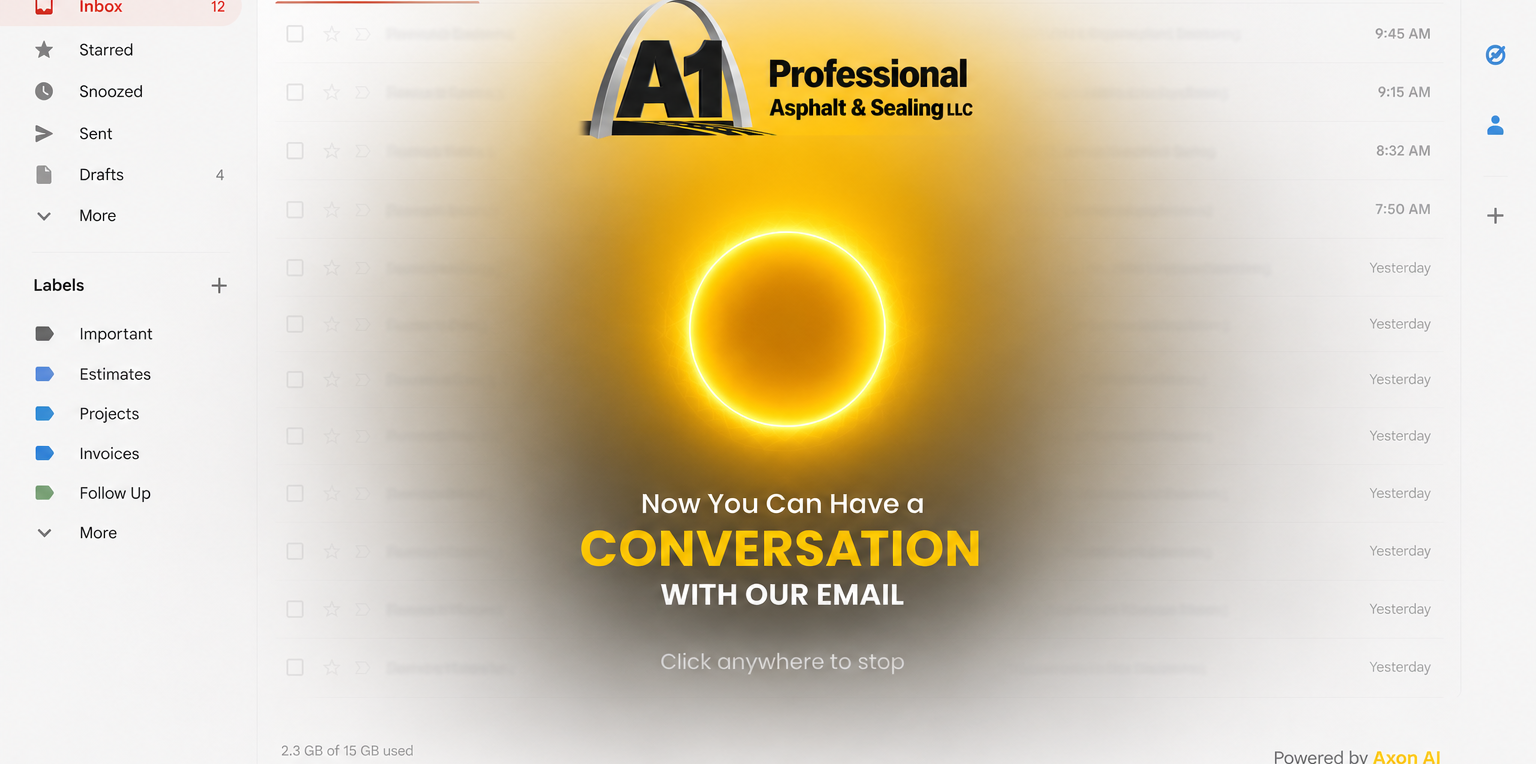
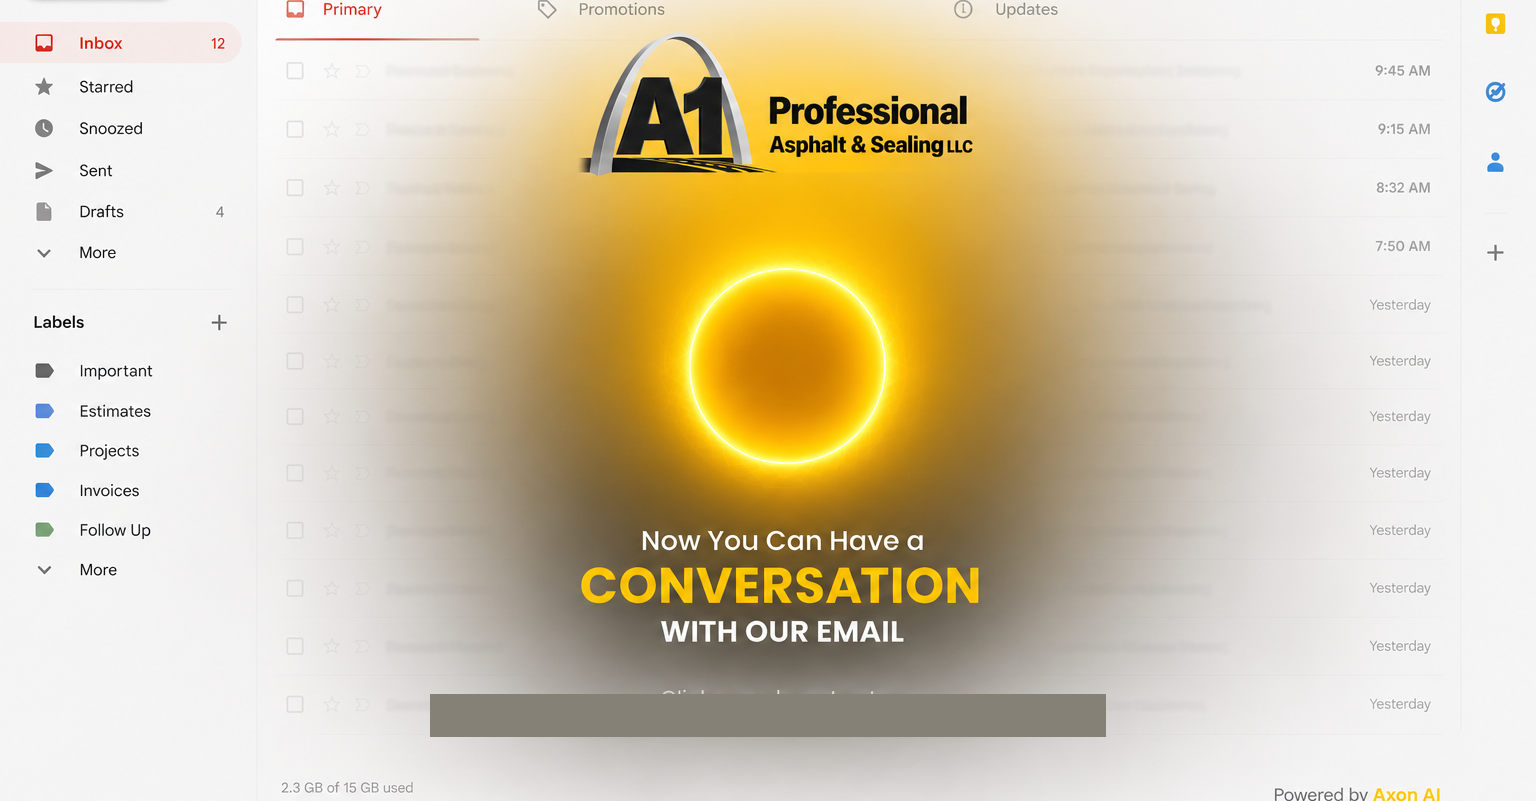
Measured layout: orb 0.3346/0.333, action bar at 89.8%, footer click-to-stop, less top crop

diff --git a/public/talk.html b/public/talk.html
@@ -10,18 +10,23 @@ html,body{width:100%;height:100%;overflow:hidden;background:#fff;
   -webkit-tap-highlight-color:transparent;user-select:none;}
 /* Background: pre-cropped image — Promotions/Updates and Terms/Privacy removed at source. */
 #bgWrap{position:fixed;inset:0;overflow:hidden;background:#1a1a1a;}
-#bg{position:absolute;inset:0;width:100%;height:100%;object-fit:cover;object-position:center center;display:block;}
-/* Thin footer dock — sits on the email list area, NOT on CONVERSATION text. */
+#bg{position:absolute;inset:0;width:100%;height:100%;object-fit:cover;object-position:center top;display:block;}
+/* Footer: measured replacement for baked-in "Click anywhere to stop" text. */
 #dock{
   position:fixed;left:0;right:0;bottom:0;z-index:5;
-  background:rgba(14,14,14,0.92);
+  background:rgba(14,14,14,0.94);
   border-top:1px solid rgba(255,255,255,0.10);
-  padding:7px 8px calc(7px + env(safe-area-inset-bottom));
+  padding:8px 10px calc(8px + env(safe-area-inset-bottom));
+  text-align:center;
 }
 body.texting #dock{display:none;}
+#footerStop{
+  font:700 13px/1.3 system-ui,sans-serif;color:#fff;letter-spacing:0.02em;
+  cursor:pointer;padding:2px 0 4px;
+}
 #poweredBy{
-  text-align:center;pointer-events:auto;margin-top:5px;
-  font:600 10px/1.2 system-ui,sans-serif;color:rgba(255,255,255,0.55);
+  pointer-events:auto;margin-top:4px;
+  font:600 10px/1.2 system-ui,sans-serif;color:rgba(255,255,255,0.50);
 }
 #poweredBy a{color:rgba(255,255,255,0.80);text-decoration:none;}
 #poweredBy a:hover{text-decoration:underline;}
@@ -45,23 +50,21 @@ body.outreach #outreachPage{
   box-shadow:0 0 34px 8px rgba(255,205,0,0.35);
   animation:pulse 2.6s ease-in-out infinite;
 }
-/* Controls live inside the bottom dock only. */
-#controls{
-  display:flex;justify-content:center;align-items:center;gap:5px;flex-wrap:nowrap;
+/* Action buttons: pinned to image coordinates (where "click anywhere" was). */
+#actionBar{
+  position:fixed;z-index:4;display:flex;justify-content:center;align-items:center;
+  gap:8px;transform:translate(-50%,-50%);pointer-events:auto;
 }
-#controls button,#controls a{
-  padding:7px 11px;border-radius:999px;cursor:pointer;border:0;text-decoration:none;display:none;
-  font:700 11px/1 system-ui,sans-serif;white-space:nowrap;flex-shrink:1;min-width:0;
+body.texting #actionBar{display:none;}
+#actionBar button,#actionBar a{
+  padding:8px 14px;border-radius:999px;cursor:pointer;border:0;text-decoration:none;
+  font:700 12px/1 system-ui,sans-serif;white-space:nowrap;
+  box-shadow:0 6px 22px rgba(0,0,0,0.45);
 }
-#textToggle{background:rgba(50,50,50,0.95);color:#fff;border:1px solid rgba(255,255,255,0.22);}
+#textToggle{background:rgba(30,30,30,0.88);color:#fff;border:1px solid rgba(255,255,255,0.25);}
 #humanLink{background:#fed100;color:#111;display:inline-block;}
-#stopBtn{background:rgba(255,255,255,0.88);color:#111;}
-@media (max-width:600px){
-  #controls button,#controls a{padding:7px 9px;font-size:10px;}
-}
-body.active #textToggle,body.connecting #textToggle{display:inline-block;}
-body.active #stopBtn,body.connecting #stopBtn,body.paused #stopBtn{display:inline-block;}
-body.paused #stopBtn{background:rgba(254,209,0,0.92);color:#111;}
+#stopBtn{background:rgba(255,255,255,0.92);color:#111;}
+body.paused #stopBtn{background:#fed100;color:#111;}
 @keyframes pulse{
   0%,100%{box-shadow:0 0 30px 6px rgba(255,205,0,0.30);}
   50%{box-shadow:0 0 64px 18px rgba(255,215,0,0.62);}
@@ -113,12 +116,13 @@ body.noisy #textPanel .note{display:block;}
   <div class="a1Sub">Ask our AI team member about asphalt, sealcoating, concrete, parking lot repairs, or future bids.</div>
 </div>
 <div id="orb" role="button" tabindex="0" aria-label="Talk"></div>
+<div id="actionBar">
+  <button id="textToggle" type="button">Type instead</button>
+  <button id="stopBtn" type="button">Pause</button>
+  <a id="humanLink" href="tel:+16189293301">Human team</a>
+</div>
 <div id="dock">
-  <div id="controls">
-    <button id="textToggle" type="button">Type instead</button>
-    <a id="humanLink" href="tel:+16189293301">Human team</a>
-    <button id="stopBtn" type="button">Pause</button>
-  </div>
+  <div id="footerStop" role="button" tabindex="0">Click anywhere to stop</div>
   <div id="poweredBy">Powered by <a href="https://axon.ai" target="_blank" rel="noopener noreferrer"><b>Axon AI</b></a></div>
 </div>
 <div id="textPanel" aria-live="polite">
@@ -136,12 +140,21 @@ const params=new URLSearchParams(location.search);
 const source=(params.get('src')||'email').toLowerCase();
 const sessionSource=(source==='a1tony'||source==='a1outreach')?source:'email';
 const isOutreach=sessionSource==='a1tony'||sessionSource==='a1outreach';
-const IMG_W=1536,IMG_H=764;         // talk-bg-clean.png (cropped) natural size
-const ORB_CX=0.514,ORB_CY=0.350;      // measured from artwork: orb ring center
-const ORB_D=0.165;                  // orb diameter as fraction of image width
+const IMG_W=1536,IMG_H=801;          // talk-bg-clean.png — measured crop
+const ORB_CX=0.5013,ORB_CY=0.3346;   // orb ring center (pixels: 770, 436 original)
+const ORB_D=0.333;                   // ring diameter 511px / 1536px
+const ACTION_CY=0.8976;              // where baked "click anywhere" text was
 const orb=document.getElementById('orb');
+const actionBar=document.getElementById('actionBar');
 const humanLink=document.getElementById('humanLink');
-function placeOrb(){
+function coverMap(){
+  const vw=window.innerWidth,vh=window.innerHeight;
+  const scale=Math.max(vw/IMG_W,vh/IMG_H);
+  const rw=IMG_W*scale,rh=IMG_H*scale;
+  const offX=(vw-rw)/2,offY=0; /* matches object-position: center top */
+  return {rw,rh,offX,offY};
+}
+function placeLayout(){
   const vw=window.innerWidth,vh=window.innerHeight;
   if(isOutreach){
     const d=Math.max(112,Math.min(Math.min(vw,vh)*0.24,190));
@@ -151,11 +164,11 @@ function placeOrb(){
     orb.style.height=d+'px';
     orb.style.left=left+'px';
     orb.style.top=top+'px';
+    actionBar.style.left=(left+d/2)+'px';
+    actionBar.style.top=(top+d+70)+'px';
     return;
   }
-  const scale=Math.max(vw/IMG_W,vh/IMG_H);   // object-fit: cover (full-bleed)
-  const rw=IMG_W*scale,rh=IMG_H*scale;
-  const offX=(vw-rw)/2,offY=(vh-rh)/2;
+  const {rw,rh,offX,offY}=coverMap();
   const d=ORB_D*rw;
   const left=offX+ORB_CX*rw-d/2;
   const top=offY+ORB_CY*rh-d/2;
@@ -163,7 +176,10 @@ function placeOrb(){
   orb.style.height=d+'px';
   orb.style.left=left+'px';
   orb.style.top=top+'px';
+  actionBar.style.left=(offX+ORB_CX*rw)+'px';
+  actionBar.style.top=(offY+ACTION_CY*rh)+'px';
 }
+function placeOrb(){placeLayout();}
 placeOrb();
 window.addEventListener('resize',placeOrb);
 
@@ -290,6 +306,14 @@ orb.addEventListener('keydown',function(e){
 stopBtn.addEventListener('click',function(e){
   e.stopPropagation();
   if(isPaused)resumeSession();else pauseSession();
+});
+const footerStop=document.getElementById('footerStop');
+footerStop.addEventListener('click',function(e){
+  e.stopPropagation();
+  if(isPaused)resumeSession();else if(pc||starting)pauseSession();
+});
+footerStop.addEventListener('keydown',function(e){
+  if(e.key==='Enter'||e.key===' '){e.preventDefault();footerStop.click();}
 });
 document.addEventListener('keydown',function(e){if(e.key==='Escape'&&pc)pauseSession();});
 document.addEventListener('visibilitychange',function(){
